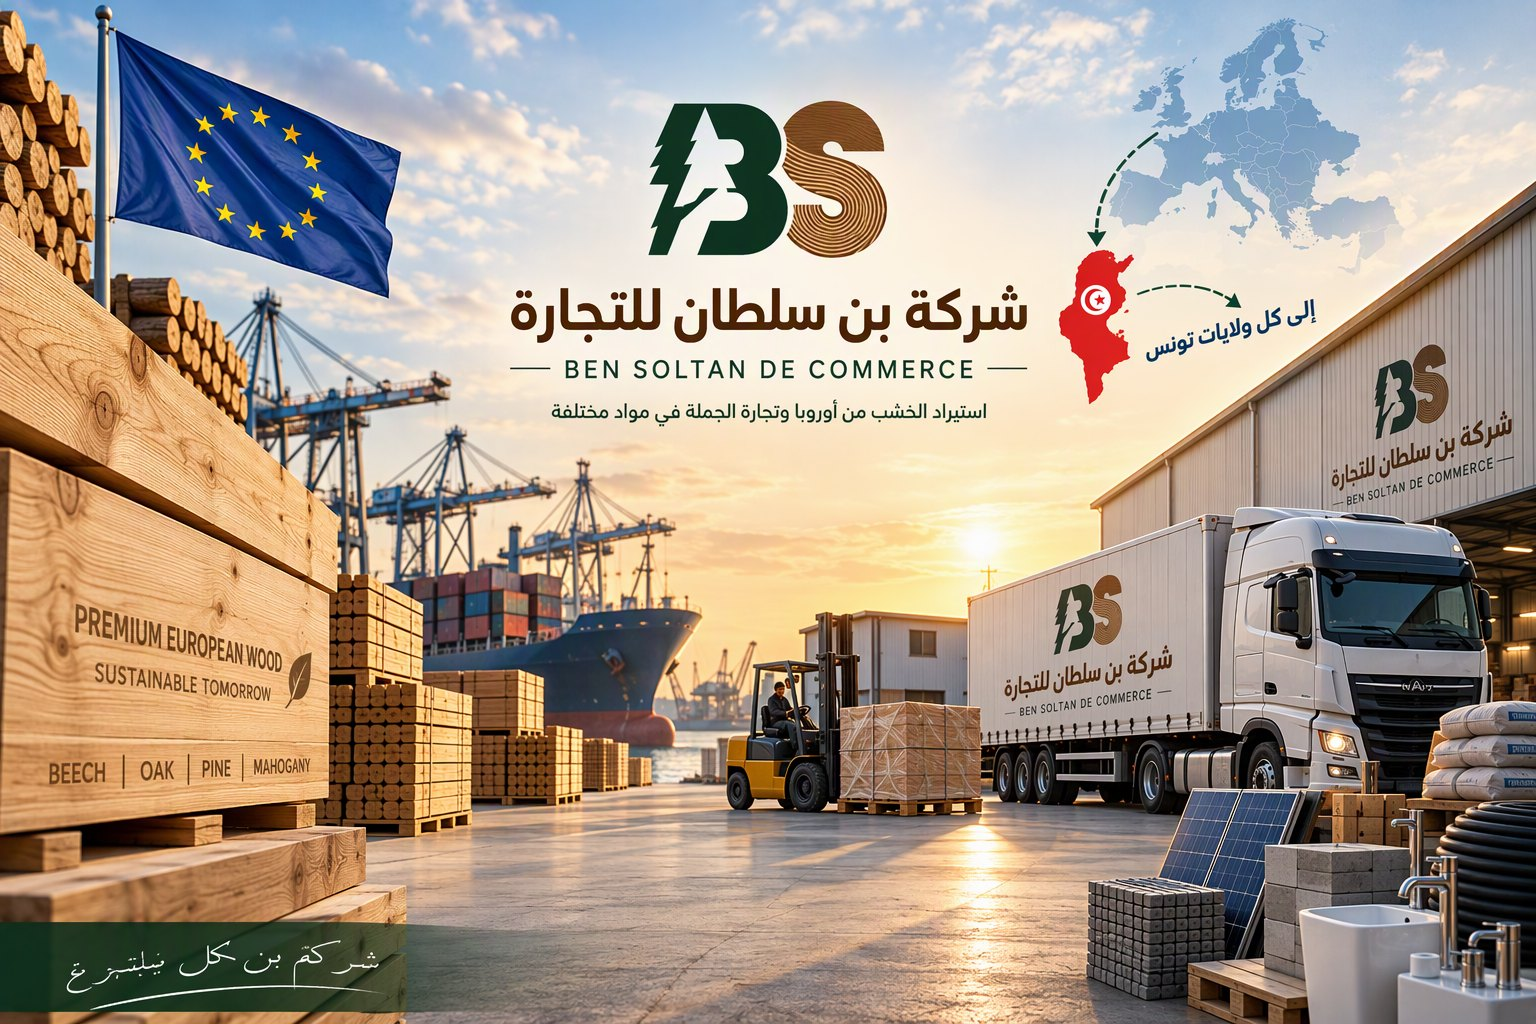
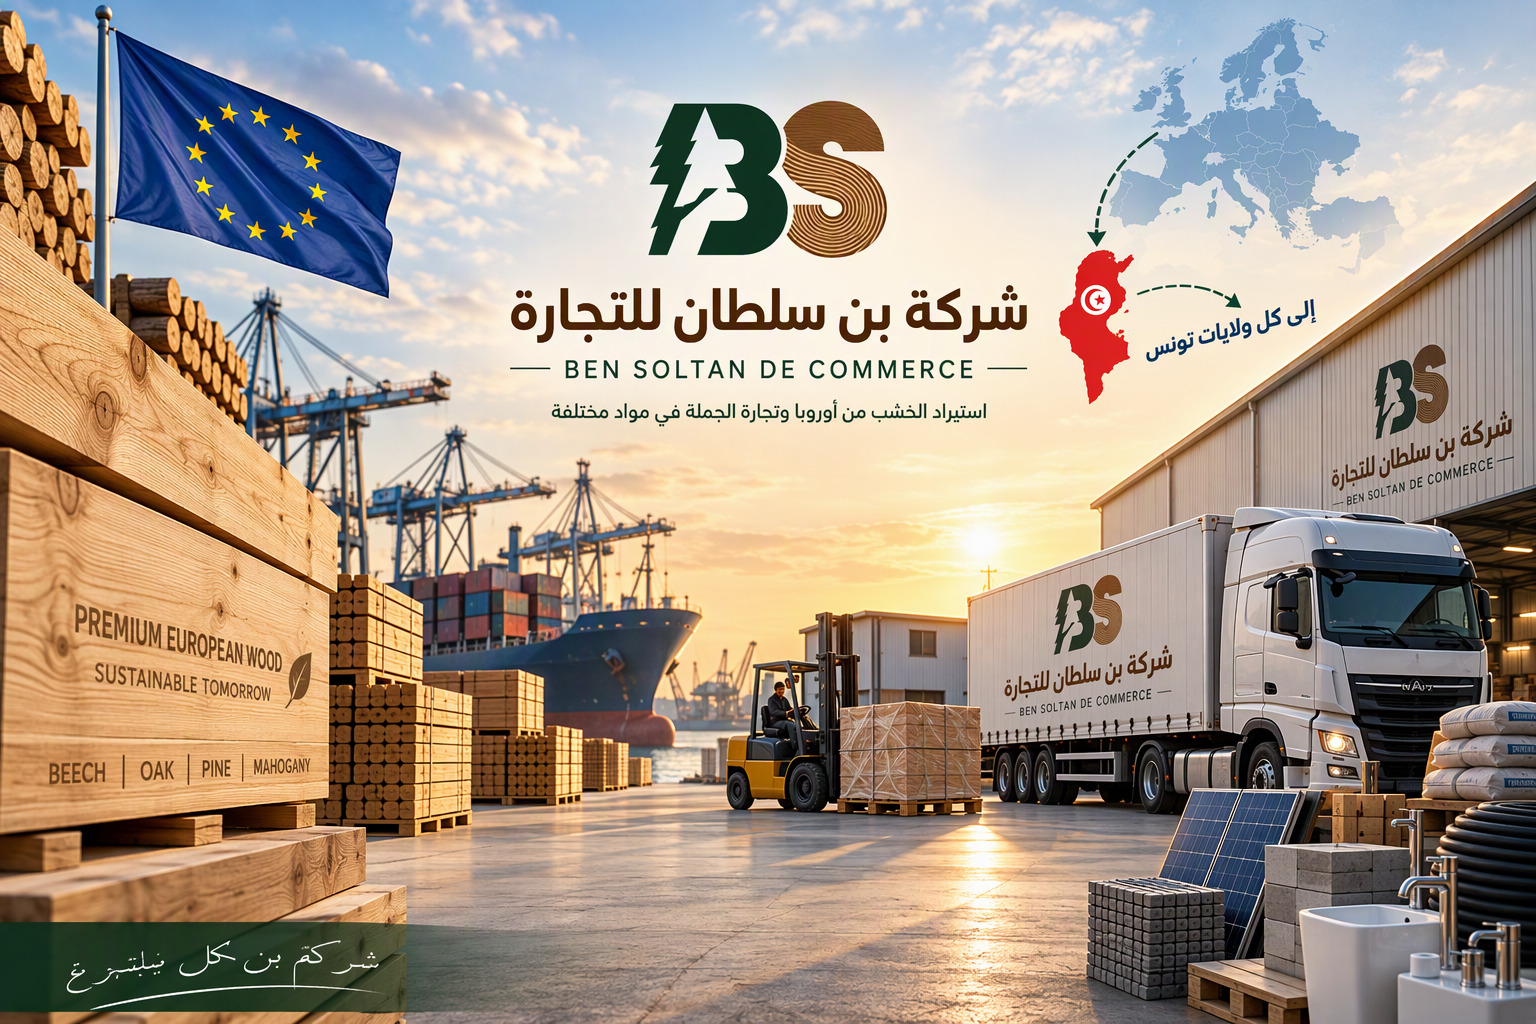
fix: use original final artwork as contact background on all screens
- regenerate contact-banner.jpg from the untouched final.png (no sky extension)
- delete contact-hero-m.jpg (manipulated mobile variant, rejected)
- remove mobile media-query override; contact page behaves like other pages
- keep fixed ::before full-viewport background layer for home/about/services
  (background-attachment: fixed is ignored on mobile browsers)

diff --git a/public/styles.css b/public/styles.css
@@ -85,13 +85,21 @@ body {
   -moz-osx-font-smoothing: grayscale;
 
   /* ðŸŒ„ Ø§Ù„Ø®Ù„ÙÙŠØ© Ø§Ù„ÙƒØ§Ù…Ù„Ø© Ù„Ù„ØµÙØØ© â€” ØµÙˆØ±Ø© Ø«Ø§Ø¨ØªØ© */
-  background-image: url("/images/home-hero.jpg");
-  background-size: cover;
-  background-position: center center;
-  background-attachment: fixed;
-  background-repeat: no-repeat;
   position: relative;
   min-height: 100vh;
+}
+
+/* Fixed full-viewport background layer - same technique as the contact page.
+   background-attachment: fixed is ignored on mobile browsers, so the body
+   background was showing only at the top on phones. This layer keeps the
+   photo covering the whole screen on desktop AND mobile. */
+body::before {
+  content: "";
+  position: fixed;
+  inset: 0;
+  z-index: -1;
+  background: url("/images/home-hero.jpg") center center / cover no-repeat #82776E;
+  pointer-events: none;
 }
 
 img, svg, video {
@@ -803,8 +811,13 @@ h1, h2, h3, h4, h5, h6 {
    About Page
    ======================================== */
 /* About page background - Ben Soltan warehouse cover photo */
-body.about-page {
-  background-image: url("/images/cover/Designerproducts.jpg");
+body.about-page::before {
+  content: "";
+  position: fixed;
+  inset: 0;
+  z-index: -1;
+  background: url("/images/cover/Designerproducts.jpg") center center / cover no-repeat #8A8585;
+  pointer-events: none;
 }
 
 /* About page: no frosted layers - show the warehouse photo crisp like the home hero */
@@ -860,8 +873,13 @@ body.about-page .milestone-label {
    Services (منتجاتنا) Page
    ======================================== */
 /* Services page background - Ben Soltan warehouse photo */
-body.services-page {
-  background-image: url("/images/cover/contact.jpg");
+body.services-page::before {
+  content: "";
+  position: fixed;
+  inset: 0;
+  z-index: -1;
+  background: url("/images/cover/contact.jpg") center center / cover no-repeat #635B57;
+  pointer-events: none;
 }
 
 /* Services page: no frosted layers - show the warehouse photo crisp like the home hero */
@@ -926,7 +944,8 @@ body.contact-page::before {
   position: fixed;
   inset: 0;
   z-index: -1;
-  background: url("/images/cover/contact-banner.jpg") center top / cover no-repeat #A0BBD9;
+  /* the ORIGINAL final artwork - same file on desktop and phones */
+  background: url("/images/cover/contact-banner.jpg") center center / cover no-repeat #A0BBD9;
   pointer-events: none;
 }
 
@@ -2018,22 +2037,6 @@ body.ltr .contact-form .section-title { text-align: left; }
 /* ========================================
    Mobile backgrounds (phones)
    ======================================== */
-/* background-attachment: fixed is broken on iOS (stretched over the whole
-   page) and cover crops badly on portrait screens (narrow zoomed slice).
-   On phones every photo background becomes a natural full-width band at
-   the top of the page, with a dark slate color below so the white glowing
-   text stays readable everywhere. */
-@media (max-width: 767px) {
-  body {
-    background-attachment: scroll;
-    background-size: 100% auto;
-    background-position: top center;
-    background-color: #0f172a;
-  }
-
-  /* Contact page: sky-extended artwork so the hero text always sits in
-     the sky above the logo; the artwork still fills the whole screen */
-  body.contact-page::before {
-    background-image: url("/images/cover/contact-hero-m.jpg");
-  }
-}
+/* All pages (including contact) use the same fixed full-viewport ::before
+   layer with the ORIGINAL artwork on every screen size - phones get the
+   natural cover crop, no manipulated variants. */
